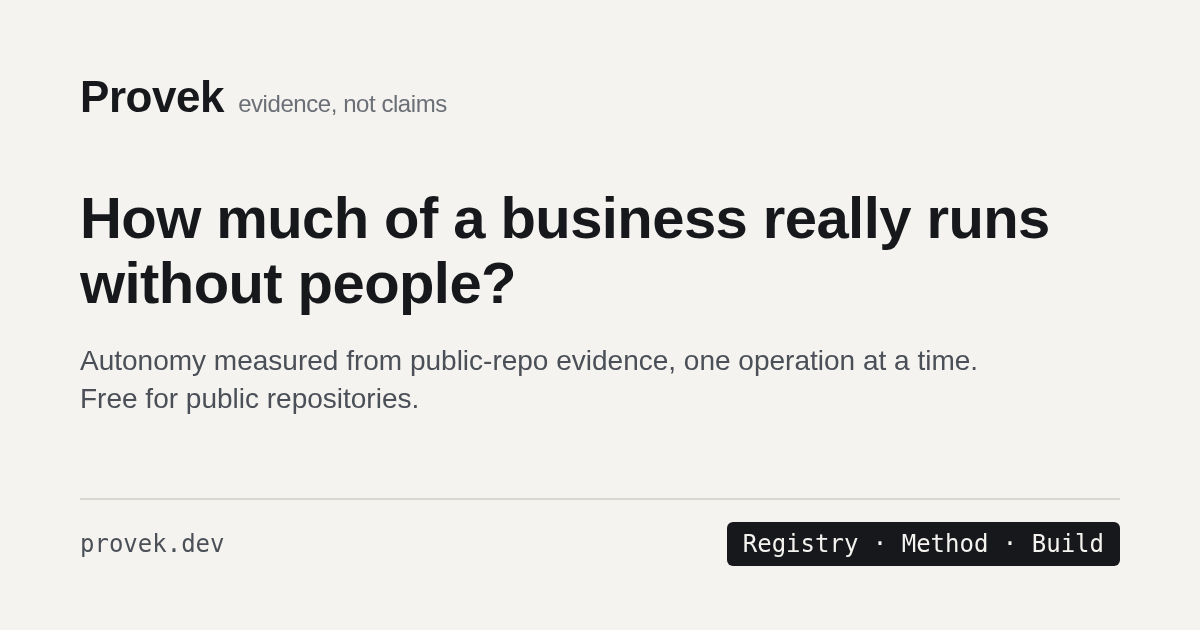
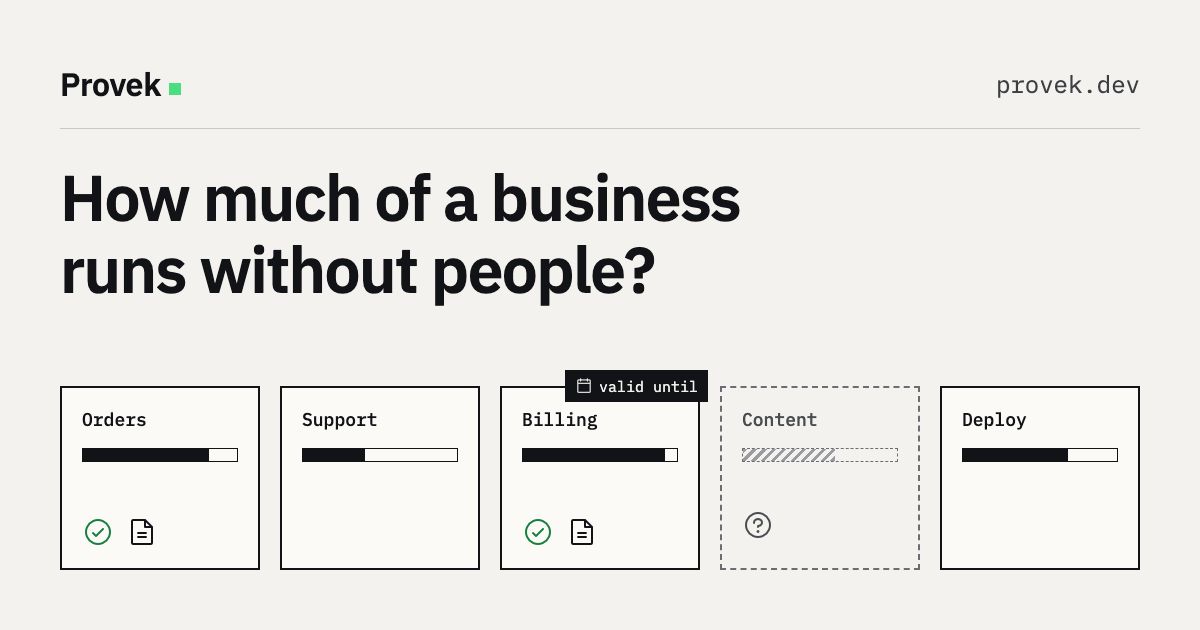
T-WB-07: feat(web): illustrated share image (operator design), hash pin updated

diff --git a/web/index.html b/web/index.html
@@ -39,7 +39,7 @@
     <meta property="og:image" content="https://provek.dev/og-image.png" />
     <meta property="og:image:width" content="1200" />
     <meta property="og:image:height" content="630" />
-    <meta property="og:image:alt" content="Provek, evidence, not claims. How much of a business really runs without people? Autonomy measured from public-repo evidence, one operation at a time." />
+    <meta property="og:image:alt" content="Provek: how much of a business runs without people? Five business operations, each with how much runs without a human; checked ones carry evidence, one is unverified, verdicts expire." />
     <meta name="twitter:card" content="summary_large_image" />
     <meta name="twitter:image" content="https://provek.dev/og-image.png" />
     <!-- twitter:site names the account, not the page, so it is site-wide and outside prerender.mjs's per-page rewrite list. -->

diff --git a/web/functions/p/[id]/brief.js b/web/functions/p/[id]/brief.js
@@ -168,7 +168,7 @@ function page(p, slug) {
 <meta property="og:image" content="${SITE}/og-image.png">
 <meta property="og:image:width" content="1200">
 <meta property="og:image:height" content="630">
-<meta property="og:image:alt" content="Provek, evidence, not claims. How much of a business really runs without people? Autonomy measured from public-repo evidence, one operation at a time.">
+<meta property="og:image:alt" content="Provek: how much of a business runs without people? Five business operations, each with how much runs without a human; checked ones carry evidence, one is unverified, verdicts expire.">
 <meta name="twitter:card" content="summary_large_image">
 <meta name="twitter:image" content="${SITE}/og-image.png">
 <link rel="canonical" href="${SITE}/p/${esc(slug)}/brief">

diff --git a/tests/test_every_page_head_has_og_image.py b/tests/test_every_page_head_has_og_image.py
@@ -15,8 +15,8 @@ import pytest
 ROOT = Path(__file__).resolve().parents[1]
 DIST = ROOT / "web" / "dist"
 MAX_DESCRIPTION = 160
-# T-WB-05: the operator's designed card (provek-og-image.png, 1200x630). The hash is the design's.
[1 lines of base64/hex data omitted]
+# T-WB-07: the operator's illustrated card (og-provek-1200x630.png, 1200x630). The hash is the design's.
[1 lines of base64/hex data omitted]
 
 built = pytest.mark.skipif(not (DIST / "index.html").exists(), reason="site not built in this checkout")
 
